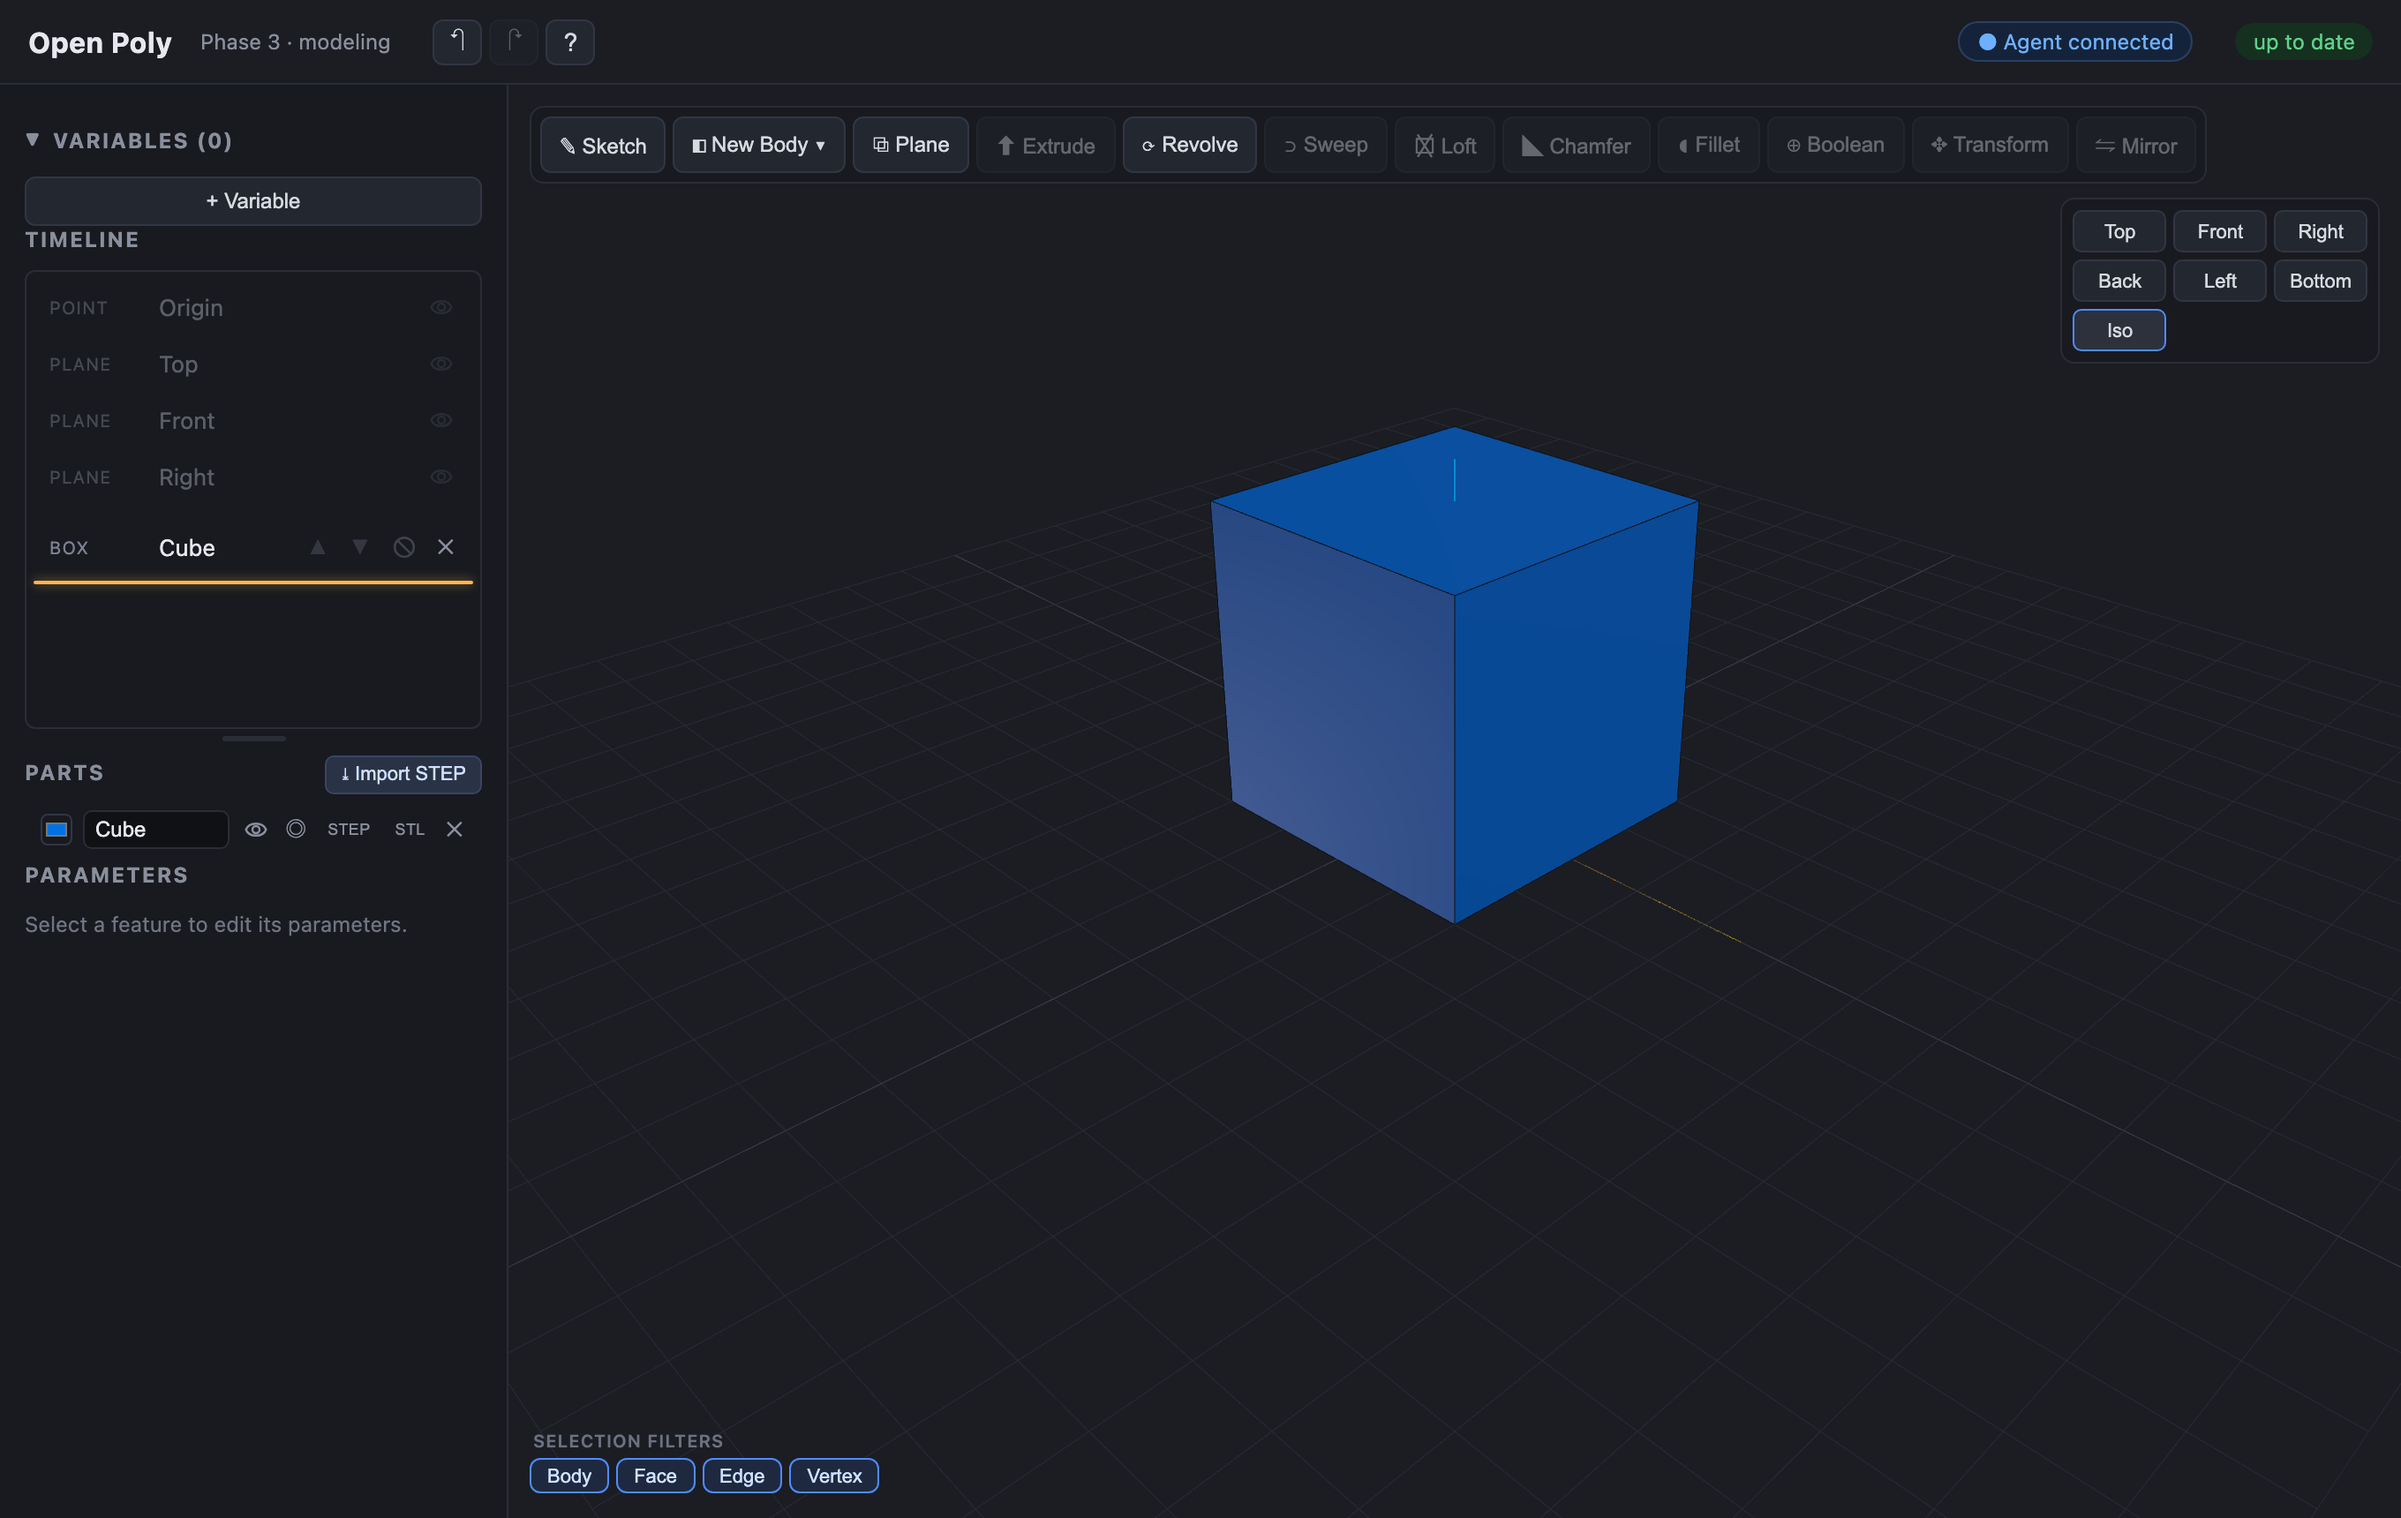
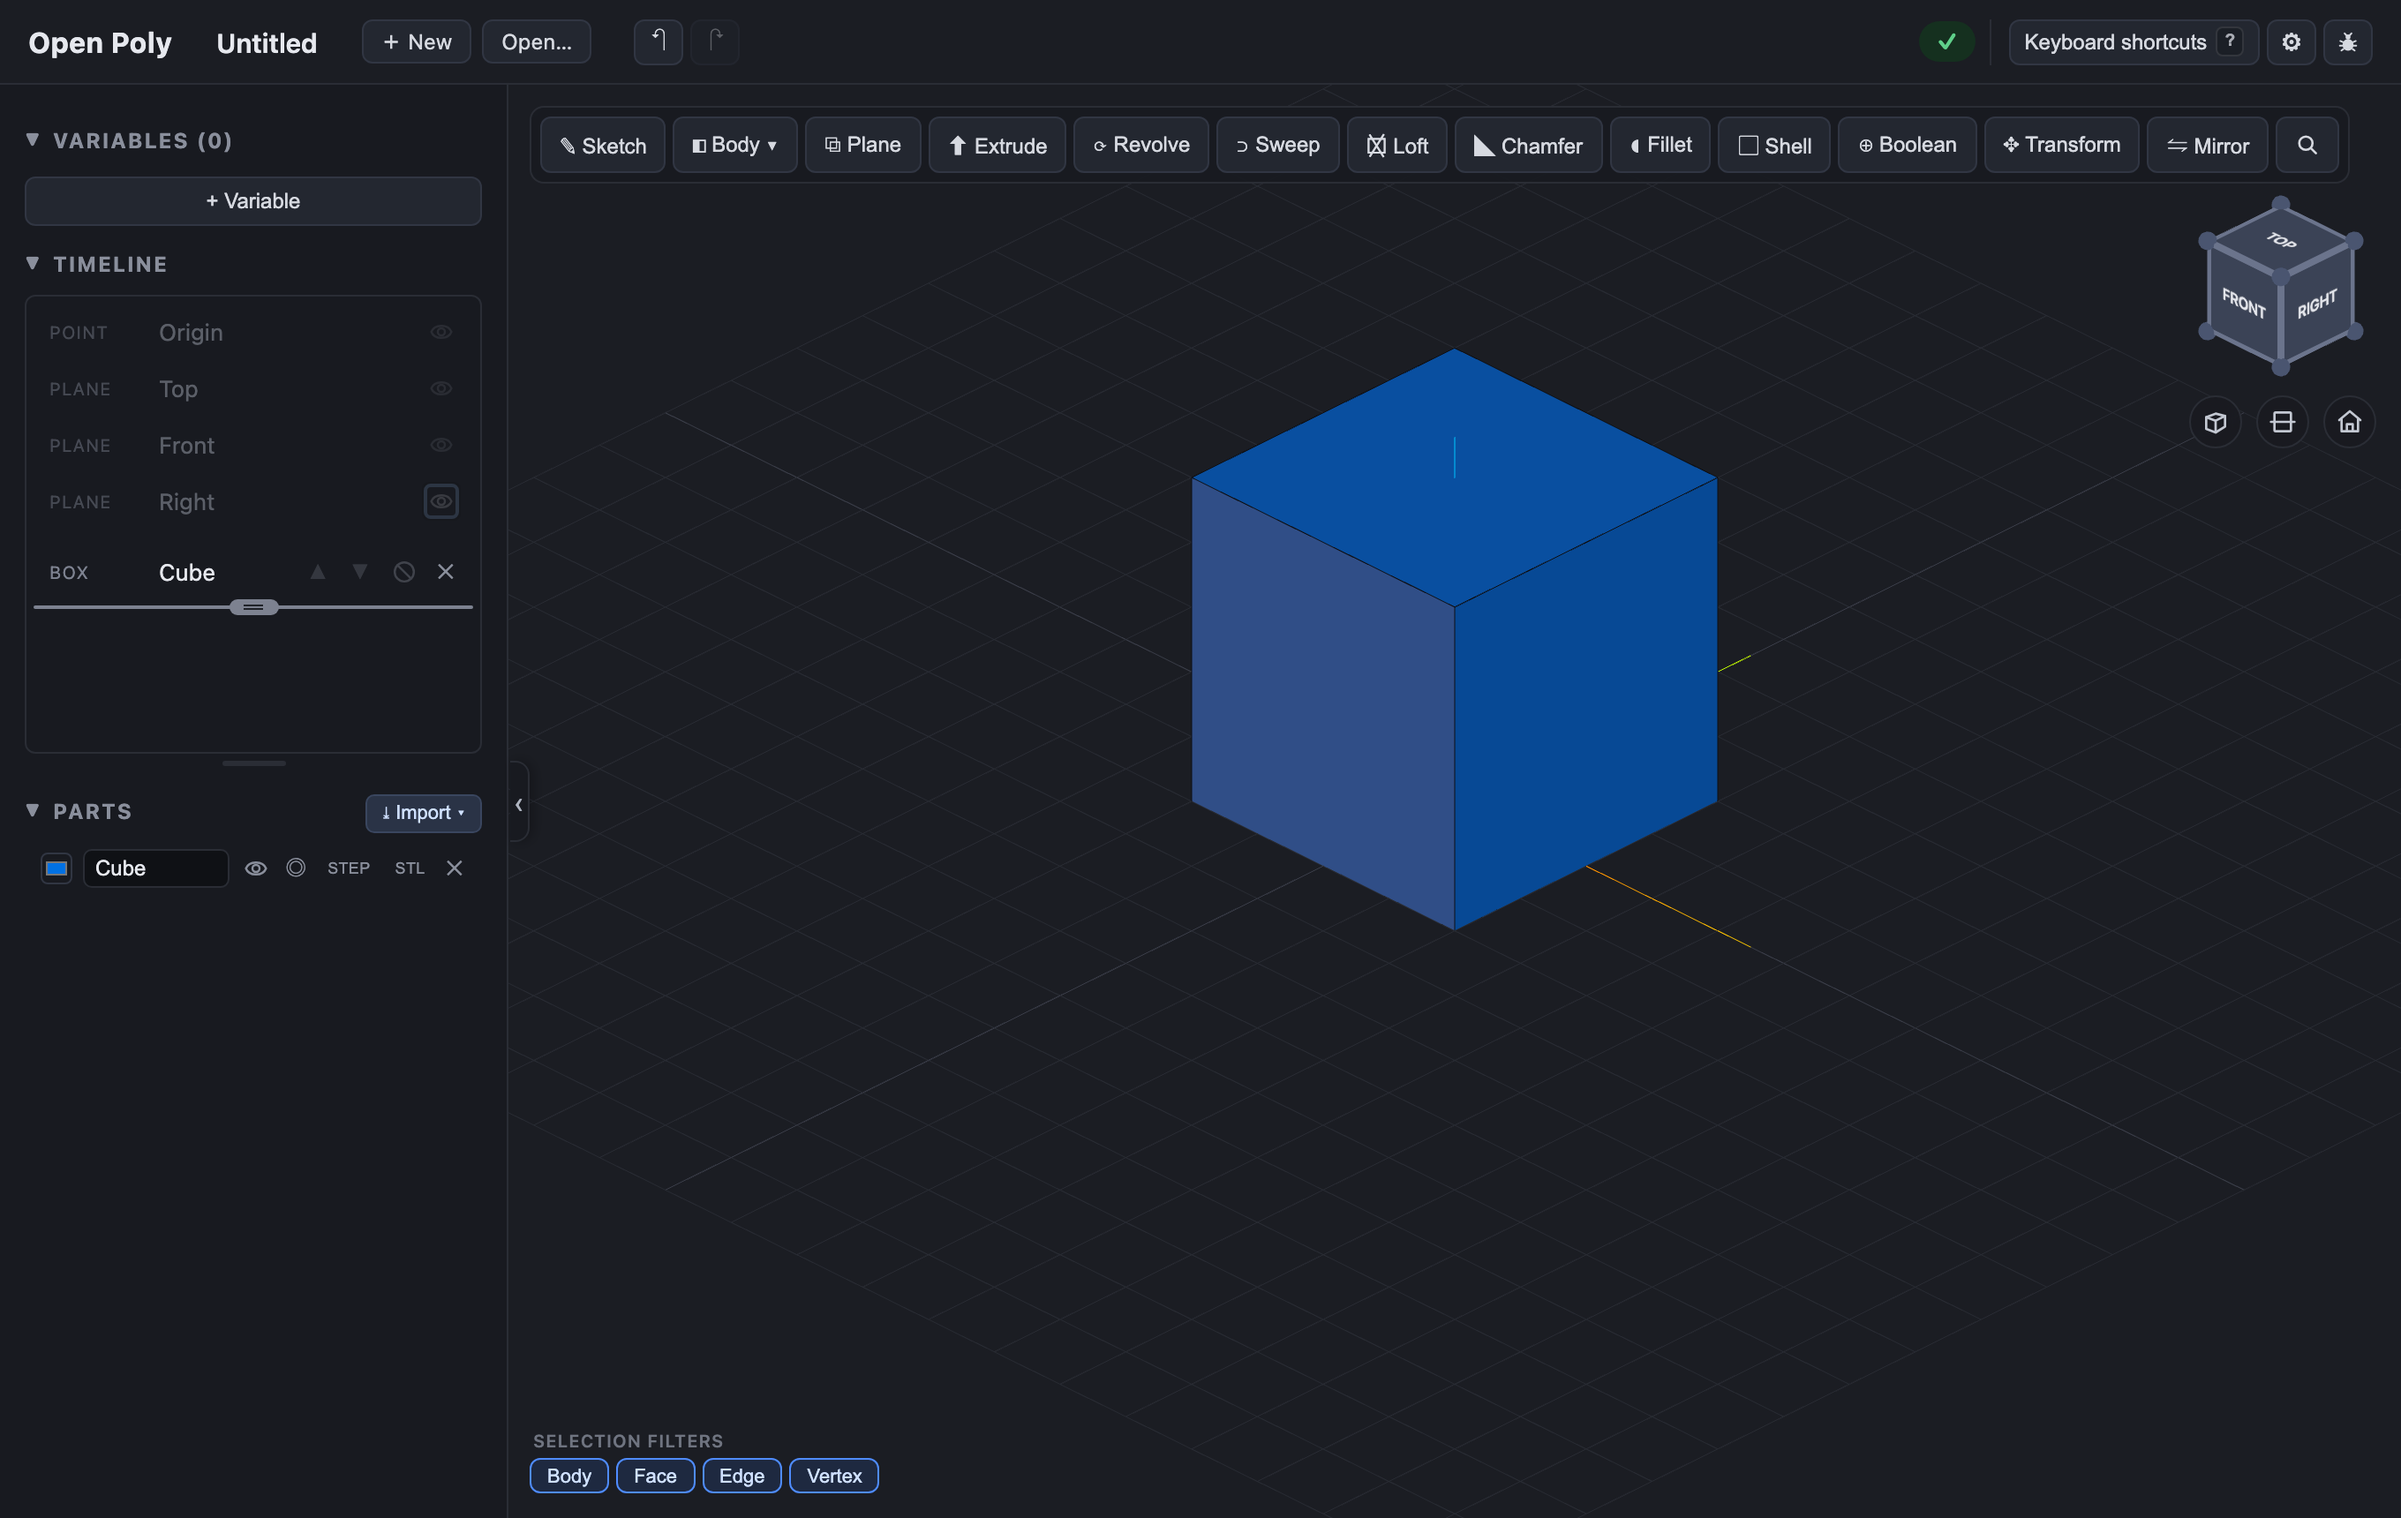
The README leads with a screenshot, and the shot generator works again
A CAD app whose README asks you to imagine it is a README with a gap in
it, so the gear hero now sits under the Try it link. GitHub renders a
README at ~890px wide, so the capture is letterboxed to 2.2:1 (clipHeight
620 CSS px) to land ~406px tall and keep the image and the first
paragraph on screen together. The clip is measured, not guessed: the
gear's lowest pixel is at 66% of frame height.

landing-shots.mjs had bitrotted and was producing a shot nobody should
ship:

  - It clicked a button named "Iso". The Top/Front/Iso text buttons were
    replaced by the canvas view cube, which has no DOM role to query, so
    the script had been failing outright. It presses the view.iso
    shortcut instead.
  - The cut loop chained targetId to the previous cut's createdId. A
    remove consumes its target and republishes the body under a new id,
    so every cut after the first failed — a red "5 errors" badge in the
    frame. It re-reads the live body each pass.
  - The cuts then still removed nothing, because the tool swept away from
    the gear (see the previous commit). With flip the gear finally has
    the five lightening holes and the bore it was always meant to have —
    the committed shots never did.

diff --git a/README.md b/README.md
@@ -4,6 +4,8 @@ An open-source, in-browser CAD application that keeps your work on your own mach
 
 **[Try it → openpoly.dev](https://openpoly.dev)** — no sign-up, no upload, nothing to install.
 
+![The Open Poly app: a gear with five lightening holes and a central bore, built from a sketch, an extrude, a cylinder and a boolean union — each step listed in the feature timeline on the left.](landing/hero-gear.png)
+
 Open Poly runs entirely in your browser — modeling is powered by the OpenCASCADE geometry kernel (via [replicad](https://replicad.xyz/)) compiled to WebAssembly, rendered with [three.js](https://threejs.org/), with parametric sketch constraints handled by [planegcs](https://github.com/Salusoft89/planegcs). Documents autosave to your browser's IndexedDB — nothing leaves your machine.
 
 The public deployment at <https://openpoly.dev> collects basic anonymous page analytics (no cookies, no personal data, nothing about your documents). Local and self-hosted builds send nothing.
